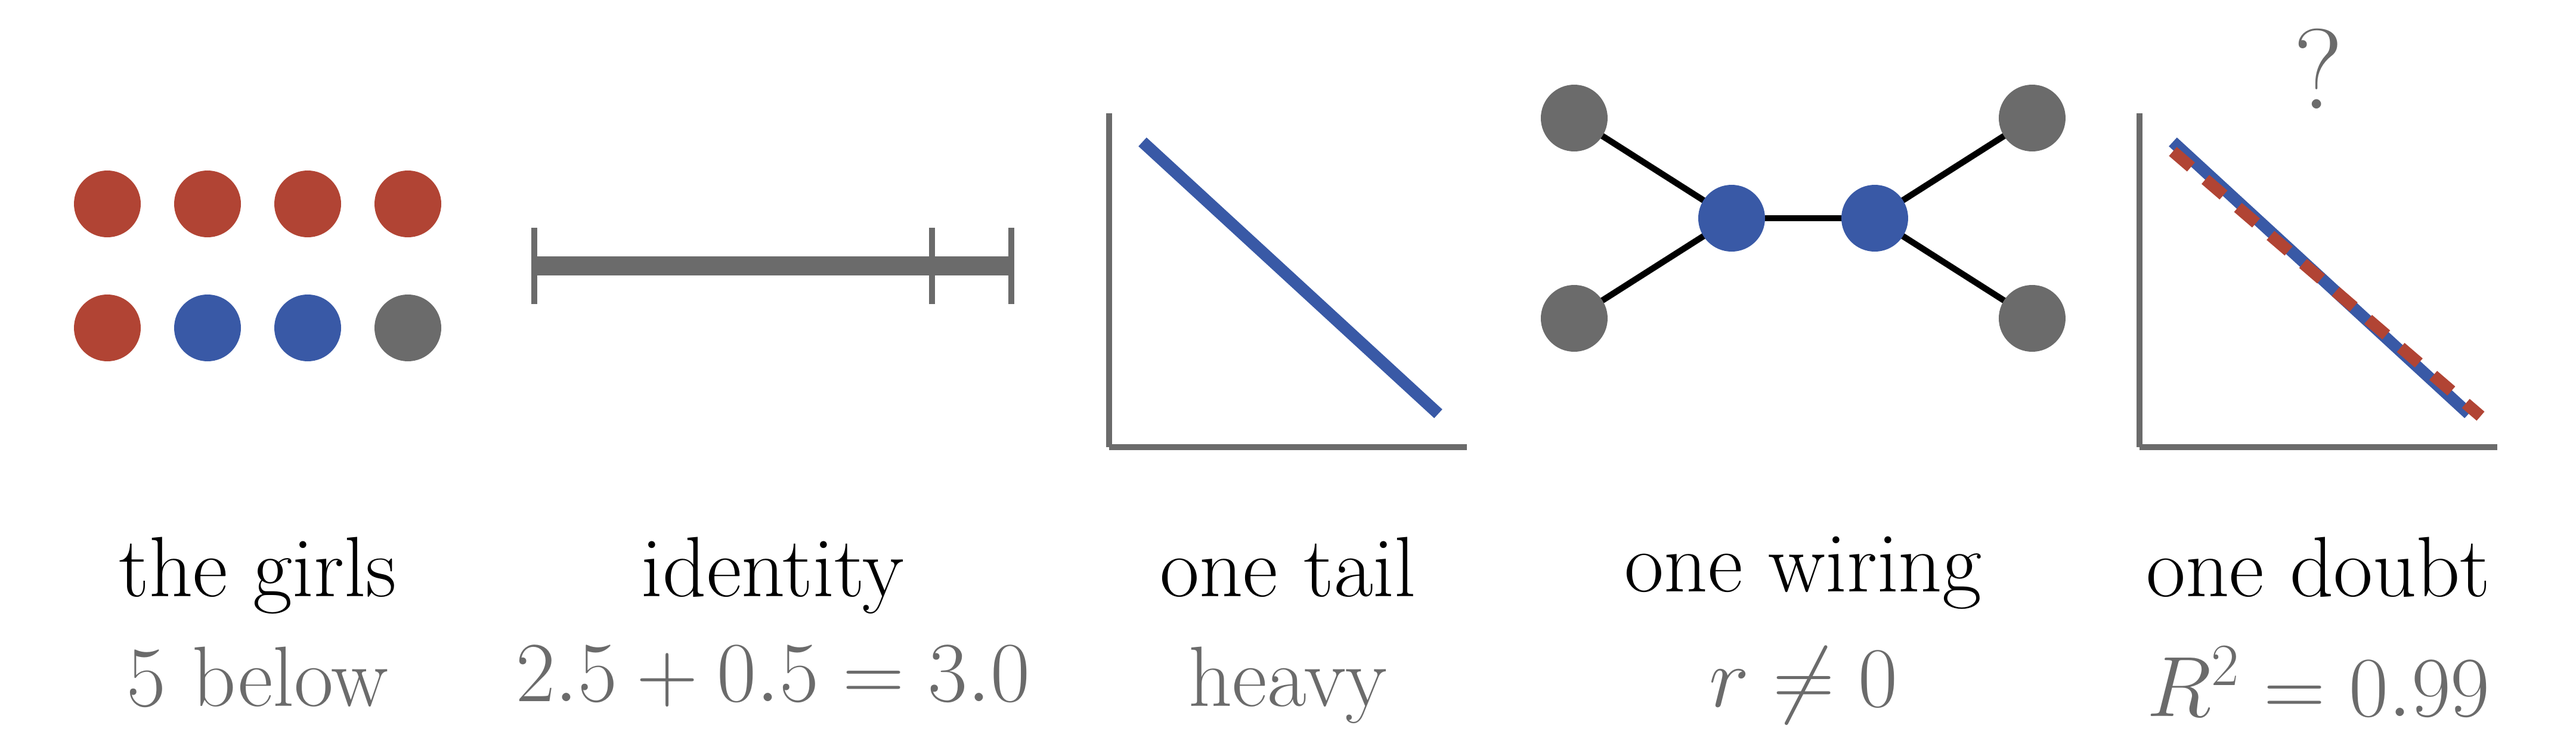
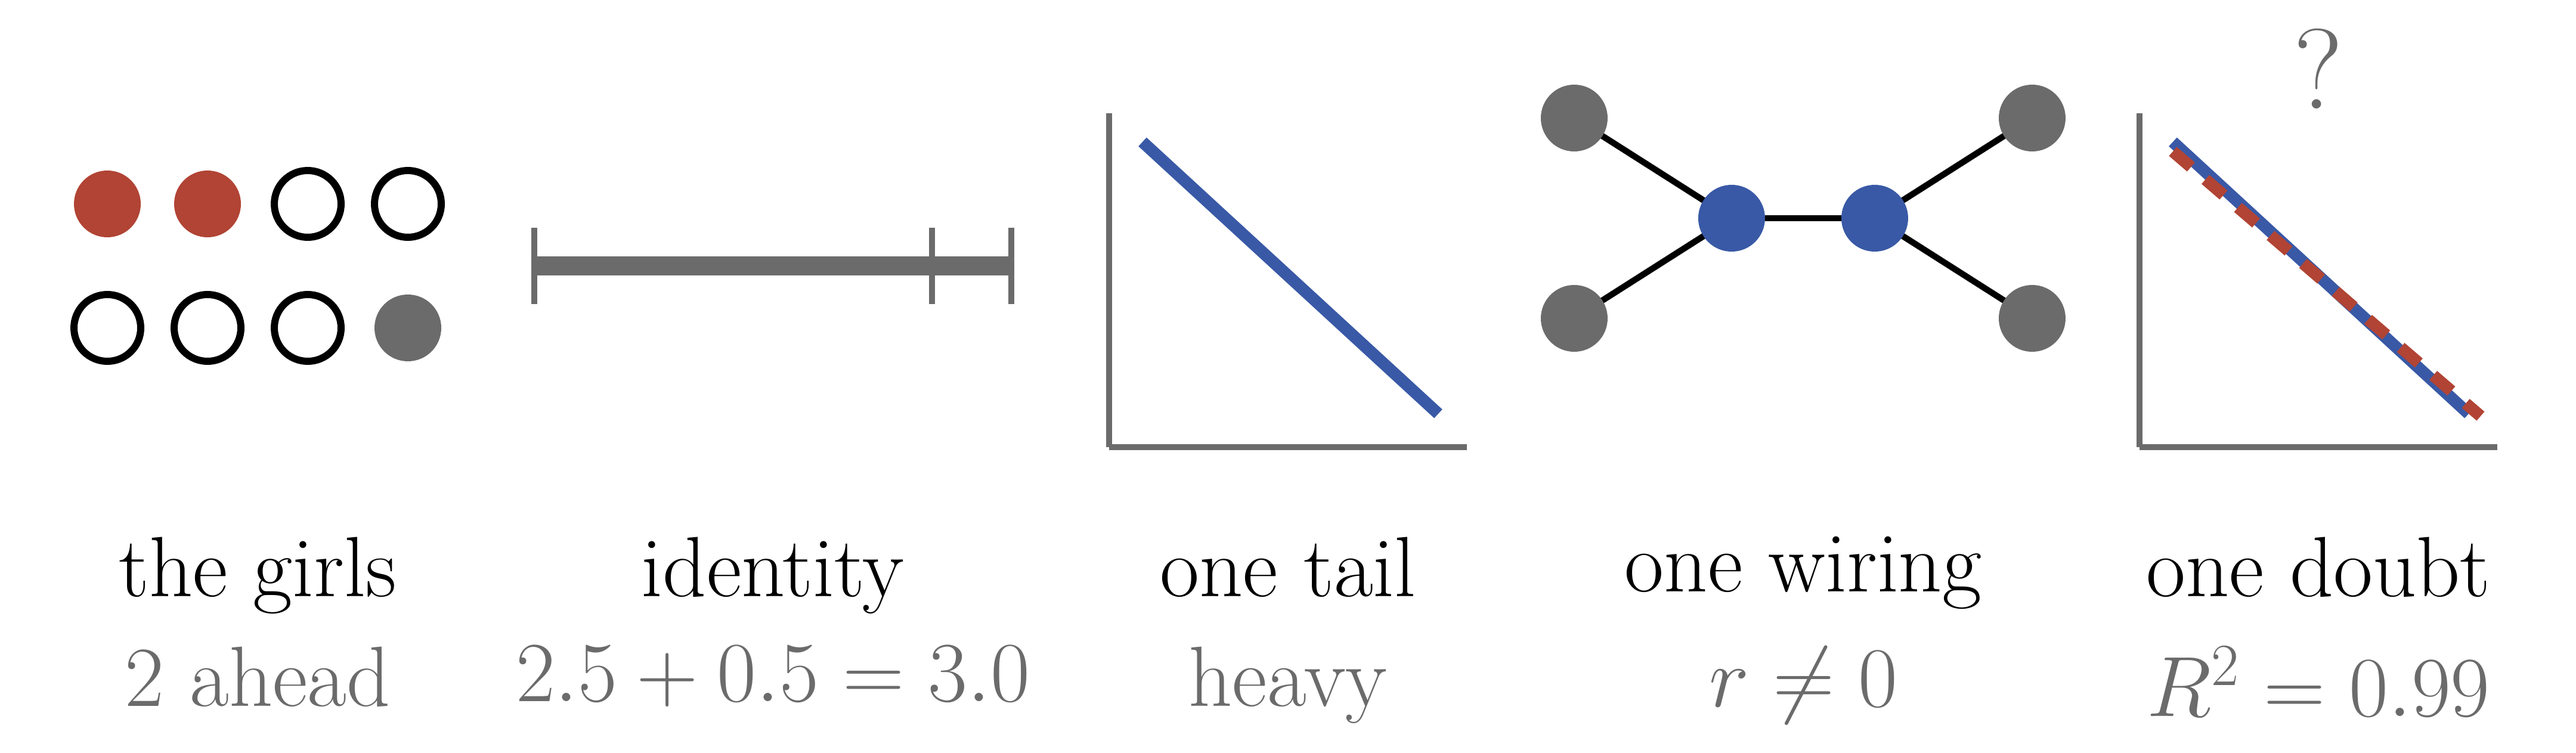
m04 Batch C R5: the roles come from feld.py, and the check reads what was drawn
A5-1/D5-1. figs_edge imported the data and re-invented the roles, so 082 and 096
drew five accent-2 discs under "5 have fewer" ten slides after 010 taught that red
means she has MORE. Both now go through feld.py's paradox_groups()/paradox_rel()
and figs_story's role_disc()/friend_role(); no colour is named in this file.

The assertion that was supposed to prevent this is the interesting part. It read

    assert rel == {"accenttwo": 1, "accent": -1, "annot": 0}[fill]

with `rel` computed live from friend_mean(g) > degree(g). The data was right and
the comparison was right; the inversion sat in the map between them, inside the
check whose job was to catch inversions. An assertion written against a literal
cannot fail in the direction of the literal being wrong -- it can only confirm it,
which it did for four rounds. assert_role_counts() counts the fills in the emitted
TeX, so it holds whatever route drew them; recap runs it on panel one's own
fragment because the wiring panel draws discs that would be counted with it.

096's caption follows the drawing: "5 below" over five hollow discs became
"2 ahead" over the two red ones.

Claude-Session: https://claude.ai/code/session_01QK8KCQxxNTtDxCUSBAkuRQ

Changed region(s): [[0.0, 0.3705, 0.1562, 0.4941], [0.0312, 0.8646, 0.1562, 0.9572], [0.0938, 0.2162, 0.1875, 0.3397]]

diff --git a/docs/slide/new/m04/figures/figs_edge.py b/docs/slide/new/m04/figures/figs_edge.py
@@ -28,7 +28,9 @@ import numpy as np
 
 from figlib import (EDGE_W, NODE, SMALLNODE, Axes, assert_planar_drawing,
                     clearance_bad, crossings, disc, dot, emit, polyline, pct, seg, text)
-from feld import ABOVE, BELOW, EQUAL, degree, friend_mean
+from feld import (ABOVE, BELOW, EQUAL, degree, friend_mean, paradox_groups,
+                  paradox_rel)
+from figs_story import assert_role_counts, friend_role, role_disc
 from figs_tail import HUBS, axis_titles, ccdf_axes
 from verify_numbers import (LITERATURE, ccdf, ccdf_fit, condmat, internet_as,
                             lognormal_degrees, moments, net_stats, yeast_ppi)
@@ -137,25 +139,34 @@ def fig_individual_vs_average():
     # figure is built on: two girls printing 2 sat in different groups and two printing
     # 3 sat under "fewer", because the quantity that decides the group -- her friends'
     # average -- was nowhere on the drawing. Both numbers are on it now.
+    # Roles come from feld.py, which owns them, and the discs go through role_disc so
+    # the colour is never named here. The line this replaces asserted
+    #     rel == {"accenttwo": 1, "accent": -1, "annot": 0}[fill]
+    # with `rel` computed live from the data -- so the data was right, the comparison
+    # was right, and the inversion sat in the map between them, inside the check whose
+    # job was to catch inversions. An assertion written against a literal cannot fail in
+    # the direction of the literal being wrong; it can only confirm it, which it did for
+    # four rounds. assert_role_counts reads what the TeX actually drew, so it holds
+    # whatever route drew it.
     b = text(540, 330, "each girl against her friends' average", anchor="south")
-    groups = [(BELOW, f"{len(BELOW)} have fewer", "accenttwo", 280),
-              (ABOVE, f"{len(ABOVE)} have more", "accent", 720),
-              (EQUAL, f"{len(EQUAL)} the same", "annot", 960)]
-    for girls, lab, fill, cx in groups:
-        x0 = cx - 60 * (len(girls) - 1)
-        for i, g in enumerate(girls):
-            k, fm = degree(g), friend_mean(g)
-            rel = (fm > k) - (fm < k)
-            assert rel == {"accenttwo": 1, "accent": -1, "annot": 0}[fill], \
-                f"{g} is drawn in the {fill} group but {k} vs {fm} says otherwise"
-            b += disc(x0 + 120 * i, 240, str(k), fill=fill)
-            if fill == "accent":          # the two above; the deck calls them by name
+    place = {"below": (280, f"{len(BELOW)} have fewer"),
+             "above": (720, f"{len(ABOVE)} have more"),
+             "equal": (960, f"{len(EQUAL)} the same")}
+    expect = {}
+    for rel, members, _ in paradox_groups():
+        cx, lab = place[rel]
+        expect[rel] = len(members)
+        x0 = cx - 60 * (len(members) - 1)
+        role = friend_role(rel, "individual-vs-average")
+        for i, g in enumerate(members):
+            assert paradox_rel(g) == rel, f"{g} is drawn {rel}, data says {paradox_rel(g)}"
+            b += role_disc(x0 + 120 * i, 240, role, str(degree(g)))
+            if rel == "above":        # the two the deck calls out by name
                 b += text(x0 + 120 * i, 276, g, anchor="south")
-            # bare number, not "vs 4.0": the line under the row already says what the
-            # second number is, and the two words cost 60bp of pitch per disc
-            b += text(x0 + 120 * i, 200, f"${_dec(fm, 1)}$", color="annot",
-                      anchor="north")
-        b += text(cx, 146, lab, color=fill, anchor="north")
+            b += text(x0 + 120 * i, 200, f"${_dec(friend_mean(g), 1)}$",
+                      color="annot", anchor="north")
+        b += text(cx, 146, lab, color=role or "black", anchor="north")
+    assert_role_counts(b, expect, "individual-vs-average")
     b += text(540, 72, "her $k$ in the disc, her friends' average below it",
               color="annot", anchor="north")
     emit("individual-vs-average", b, container="full", h=400)
@@ -596,13 +607,25 @@ def fig_recap():
     assert k1 + gap == friend
 
     b = ""
-    # Act one, in slide 076's key: 5 below, 2 above, 1 exactly equal. Drawn 5 red +
-    # 3 gray, it taught three ties against the key the deck had just given the room.
-    fills = ["accenttwo"] * len(BELOW) + ["accent"] * len(ABOVE) + ["annot"] * len(EQUAL)
-    assert len(fills) == 8
-    for i, fill in enumerate(fills):
-        b += disc(108 - 63 + 42 * (i % 4), 292 if i < 4 else 240,
-                  fill=fill, size=SMALLNODE)
+    # Act one, in the key feld.py owns and slide 010 teaches: the minority who are
+    # ahead of their friends in accent-2, the majority behind them hollow, Carol gray.
+    # Drawn 5 red / 2 blue this panel taught the inversion twice -- once here and once
+    # on 082 -- so it goes through role_disc like everything else that colours people,
+    # and the count check runs on this panel's own fragment because the wiring panel
+    # below draws discs too and would be counted with it.
+    panel, expect = "", {}
+    order = [(rel, members) for rel, members, _ in paradox_groups()]
+    i = 0
+    for rel, members in order:
+        expect[rel] = len(members)
+        role = friend_role(rel, "recap")
+        for _ in members:
+            panel += role_disc(108 - 63 + 42 * (i % 4), 292 if i < 4 else 240,
+                               role, size=SMALLNODE)
+            i += 1
+    assert i == 8
+    assert_role_counts(panel, expect, "recap panel one")
+    b += panel
 
     # Act two: 2.5 of your own, plus the gap the variance buys. All gray -- accent-2
     # means "her friends have more" in panel one and must not mean a second thing here.
@@ -646,7 +669,7 @@ def fig_recap():
     # 0.5" without the "= 3.0" is a fragment, not an identity -- so it gets the five
     # characters the collision budget leaves: "heavy".
     for cx, head, val in (
-            (108, "the girls", f"{len(BELOW)} below"),
+            (108, "the girls", f"{len(ABOVE)} ahead"),
             (324, "identity",
              f"${_dec(k1, 1)}+{_dec(gap, 1)}={_dec(friend, 1)}$"),
             (540, "one tail", "heavy"),
